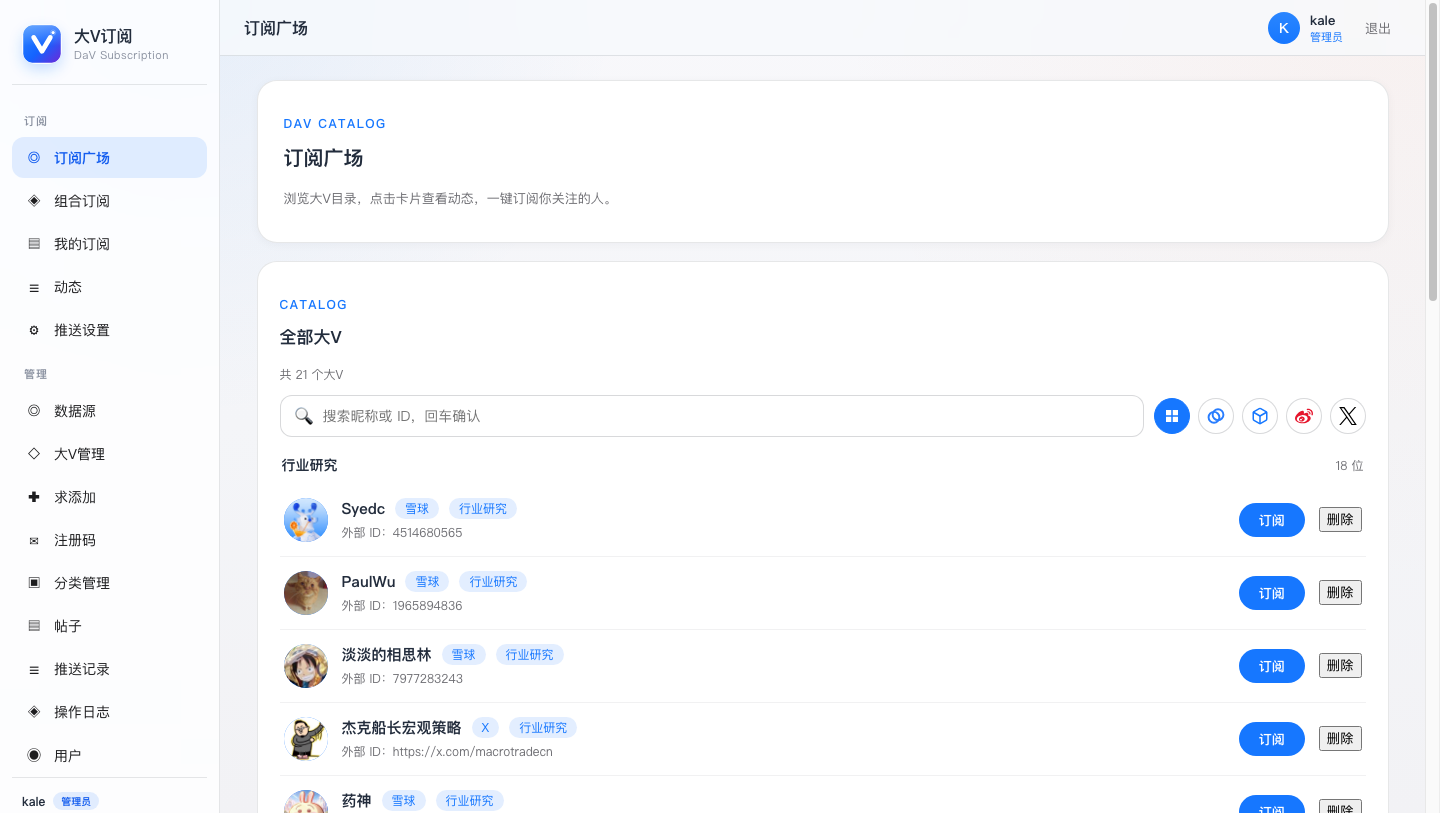
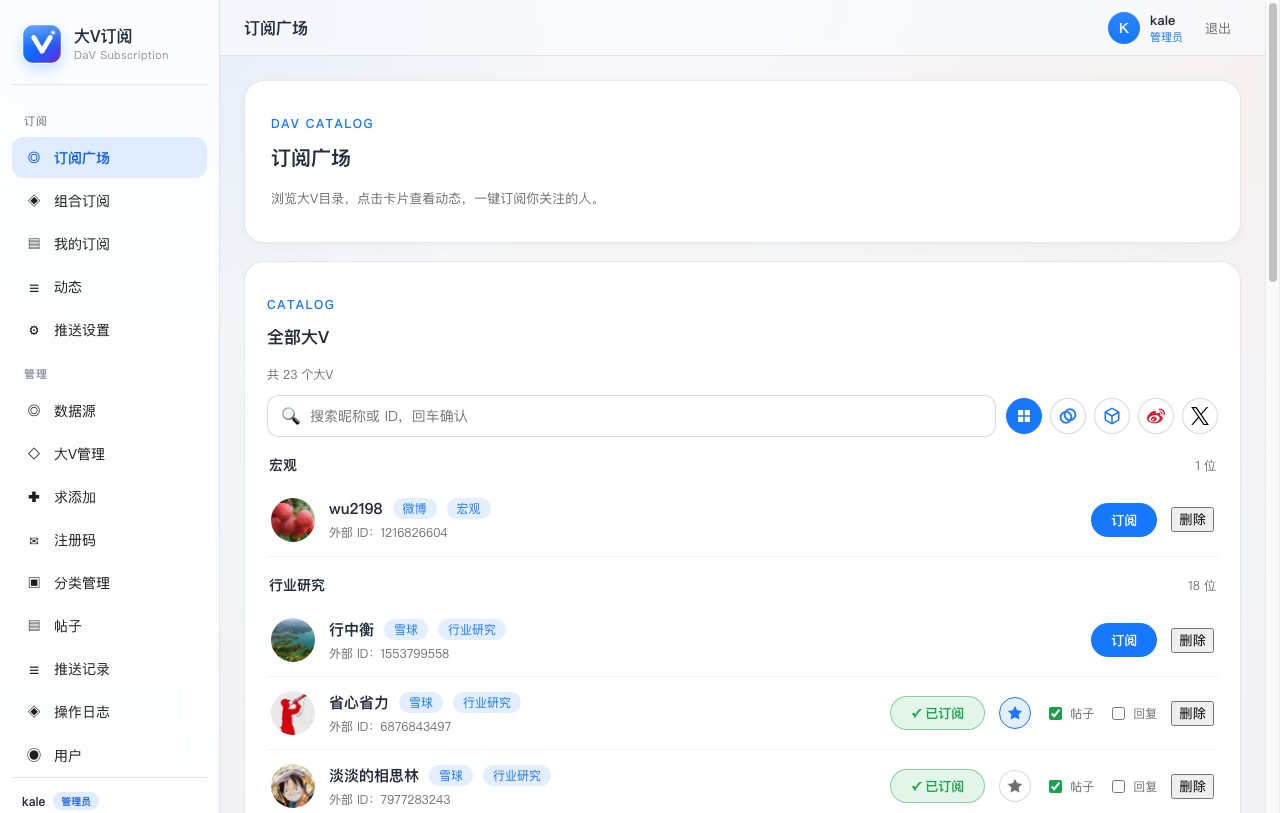
docs: README 更新新功能（特别关注/免打扰/图片推送/头像缓存/日志系统/长文），刷新设置页与首页截图

diff --git a/README.md b/README.md
@@ -28,11 +28,15 @@
 
 ## 功能
 
-- **多源聚合**：雪球帖子/回复、雪球组合调仓、微博、X，自动去重、按发布时间顺序推送
+- **多源聚合**：雪球帖子/回复、雪球组合调仓、微博、X，自动去重、按发布时间顺序推送；带图动态文字+图片同卡送达（TG 相册 / 飞书卡片插图）
 - **多用户**：注册码注册，用户自助订阅/退订，各自独立的动态流与推送
 - **多通道推送**：Telegram（官方共享机器人或用户自建机器人）、飞书私聊/群、企业微信群机器人；绑定多个渠道时可自选接收通道
-- **网页后台**：大V目录、分类、优先级抓取、注册码、用户与管理员、推送记录、操作日志、数据源状态
+- **特别关注**：把订阅的大V标星 ⭐，推送消息带星标标识、每日精选置顶；可在免打扰时段内选择「特别关注穿透」实时提醒
+- **午夜免打扰**：设置免打扰时段（支持跨午夜），时段内不打扰，结束后一次性补一条汇总，不错过任何动态
+- **网页后台**：大V目录、分类、优先级抓取、注册码、用户与管理员、推送记录、操作日志与系统日志（网页实时查看）、数据源状态
 - **抓取策略**：优先大V短间隔（默认 60s）+ 普通大V全局间隔（默认 180s），随机抖动与失败退避；雪球/微博 cookie 自动续期保活
+- **本地头像缓存**：第三方图床头像自动缓存到服务器本地，解决签名过期/外链失效
+- **长文完整推送**：单条推送上限 2000 字符并智能断句，不再拦腰截断
 - **X 翻译**：配置 X 登录 Cookie 后走官方翻译接口（同网页版），内容自动翻译成中文
 - **微信小程序**（可选）：`miniprogram/` 提供微信登录的客户端，可后接
 
@@ -67,6 +71,8 @@ cp .env.example .env
 | `XUEQIU_COOKIE` | 可选 | 浏览器登录 xueqiu.com 后复制的 Cookie，防止反爬拦截 |
 | `WEIBO_COOKIE` | 可选 | 浏览器登录微博后复制的 Cookie，可后台扫码登录替代 |
 | `TWITTER_COOKIE` | 可选 | 浏览器登录 x.com 后复制的完整 Cookie（直抓 X + 自动翻译中文） |
+| `LOG_LEVEL` | 可选 | 日志级别 `INFO`/`DEBUG`（DEBUG 记录每次 API 请求与慢请求告警，便于排查） |
+| `LOG_FILE` | 可选 | 把日志同时写入文件（滚动 5MB×3），留空则仅输出容器 stdout |
 
 也可以用 YAML 配置：复制 `config.example.yaml` 为 `config.yaml` 后修改（环境变量优先级更高）。
 
